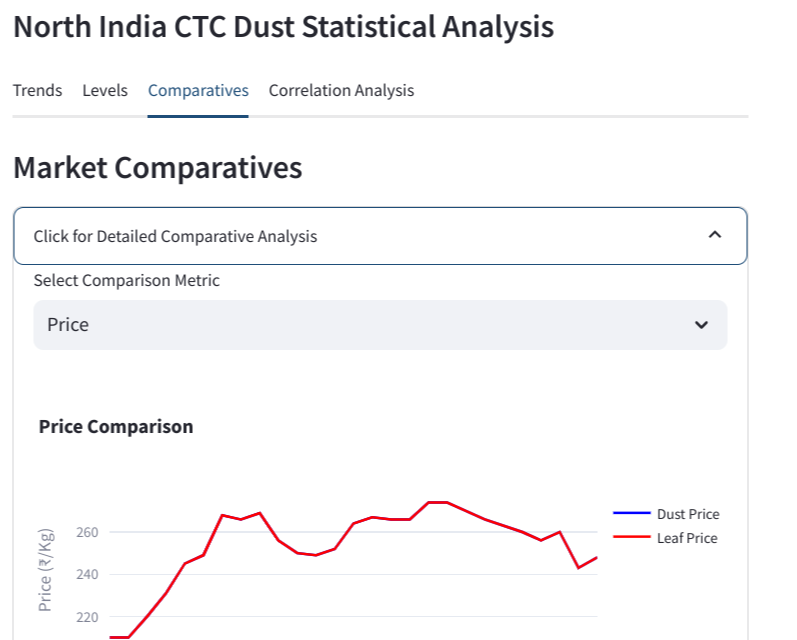
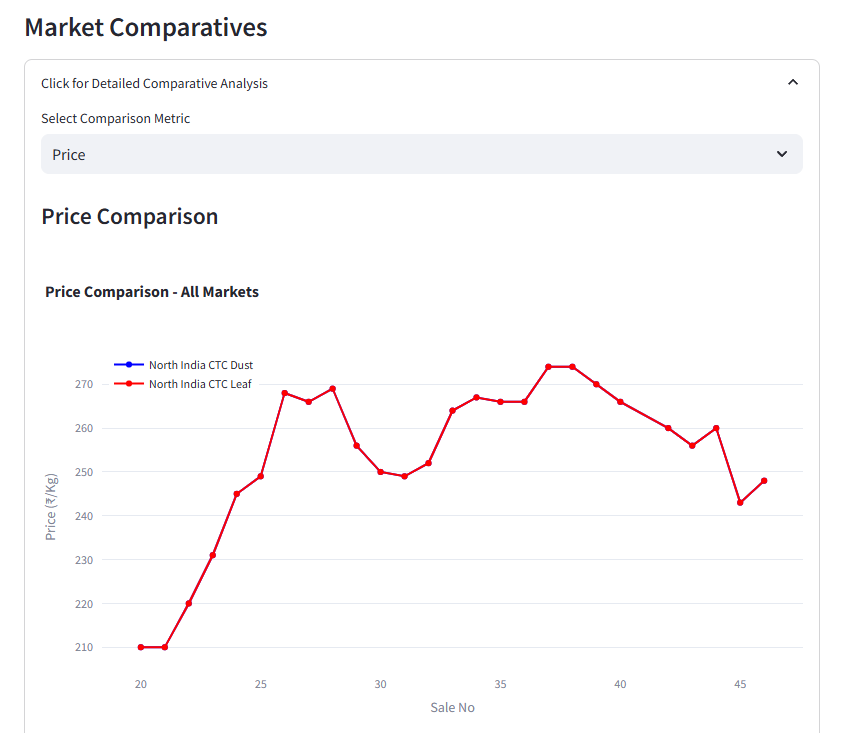
Agent query: Is the Market Comparatives analysis now properly displaying all markets, including both Dust grade categories (North and South India) with proper color coding and batch processing for large datasets?

diff --git a/main.py b/main.py
@@ -323,30 +323,40 @@ try:
                         # Create price comparison figure
                         fig = go.Figure()
                         
-                        # Get all unique markets
-                        all_markets = df['Centre'].unique()
+                        # Define batch size for processing large datasets
+                        batch_size = 1000
                         
-                        # Define colors for different market types
-                        colors = {
-                            'North India CTC Dust': 'blue',
-                            'North India CTC Leaf': 'red',
-                            'South India CTC Dust': 'green',
-                            'South India CTC Leaf': 'orange'
+                        # Define market types and their colors
+                        market_colors = {
+                            'North India CTC Dust': {'color': '#1f77b4', 'dash': None},      # Solid Blue
+                            'North India CTC Leaf': {'color': '#ff7f0e', 'dash': None},      # Solid Orange
+                            'South India CTC Dust': {'color': '#2ca02c', 'dash': None},      # Solid Green
+                            'South India CTC Leaf': {'color': '#d62728', 'dash': None}       # Solid Red
                         }
                         
-                        # Plot price lines for all markets
-                        for market in all_markets:
+                        # Process each market type
+                        for market in market_colors.keys():
+                            # Get market data and sort by Sale No
                             market_data = df[df['Centre'] == market].sort_values('Sale No')
+                            
                             if not market_data.empty:
-                                color = colors.get(market, 'gray')  # Default to gray if market not in colors dict
-                                
-                                fig.add_trace(go.Scatter(
-                                    x=market_data['Sale No'],
-                                    y=market_data['Sales Price(Kg)'],
-                                    name=market,
-                                    line=dict(color=color),
-                                    mode='lines+markers'
-                                ))
+                                # Process data in batches
+                                for i in range(0, len(market_data), batch_size):
+                                    batch = market_data.iloc[i:i + batch_size]
+                                    
+                                    # Add trace for current batch
+                                    fig.add_trace(go.Scatter(
+                                        x=batch['Sale No'],
+                                        y=batch['Sales Price(Kg)'],
+                                        name=market,
+                                        line=dict(
+                                            color=market_colors[market]['color'],
+                                            width=2,
+                                            dash=market_colors[market]['dash']
+                                        ),
+                                        mode='lines+markers',
+                                        showlegend=(i == 0)  # Show legend only for first batch
+                                    ))
                         
                         fig.update_layout(
                             title="Price Comparison - All Markets",
